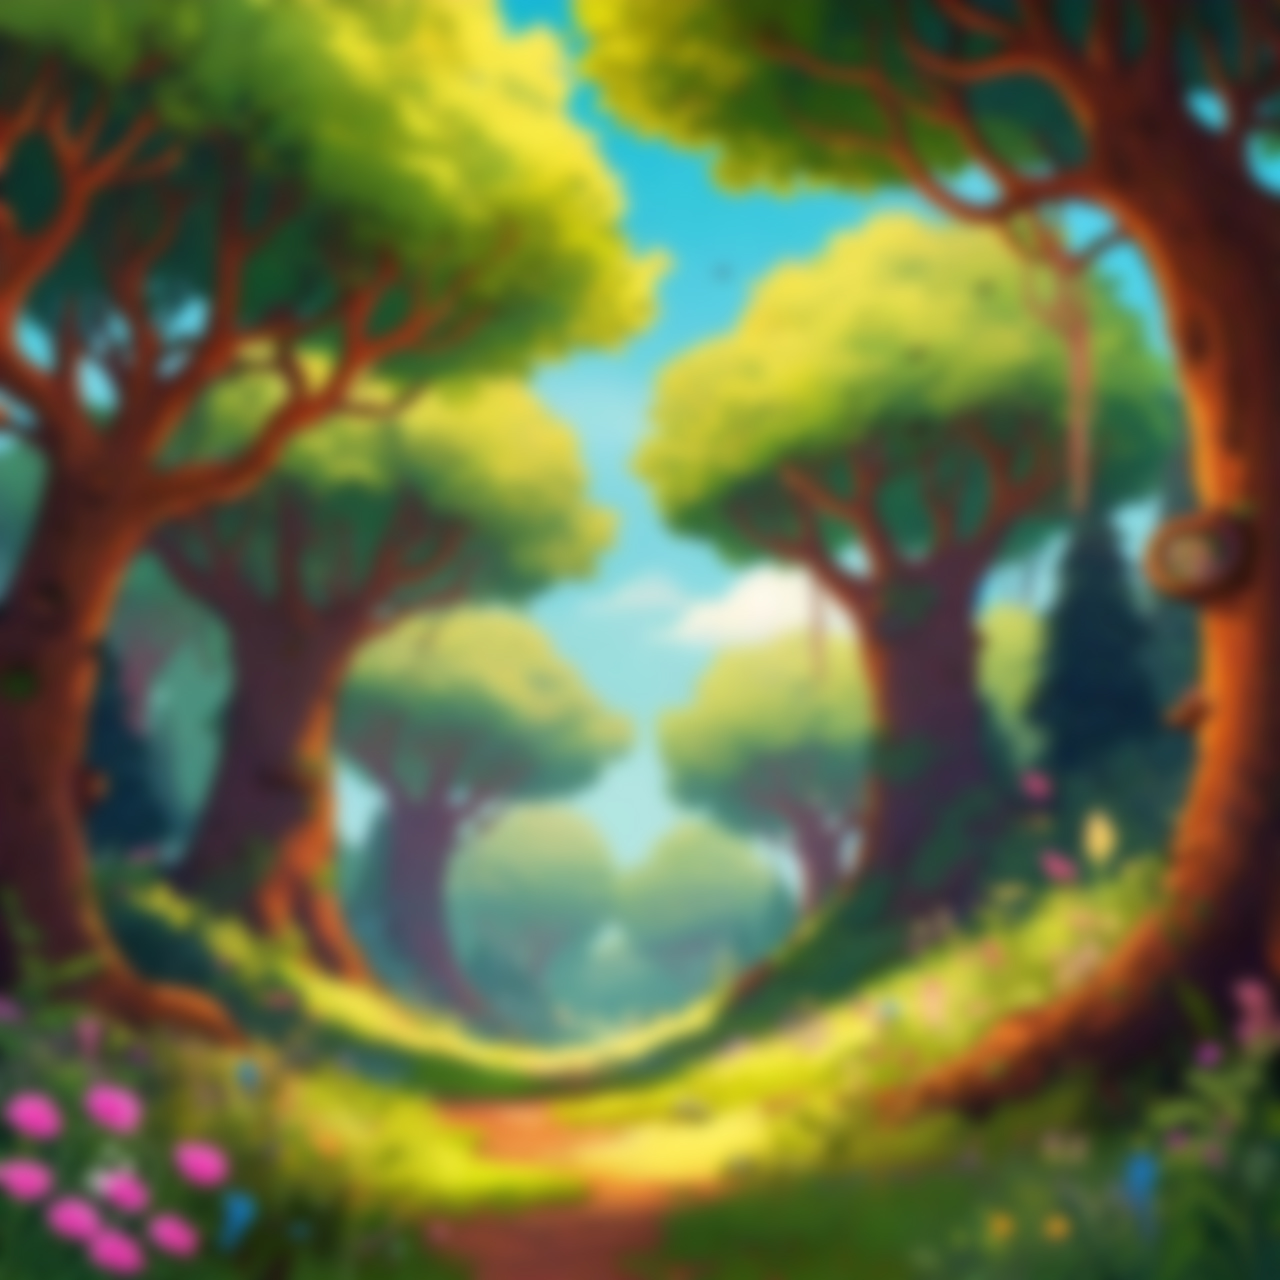
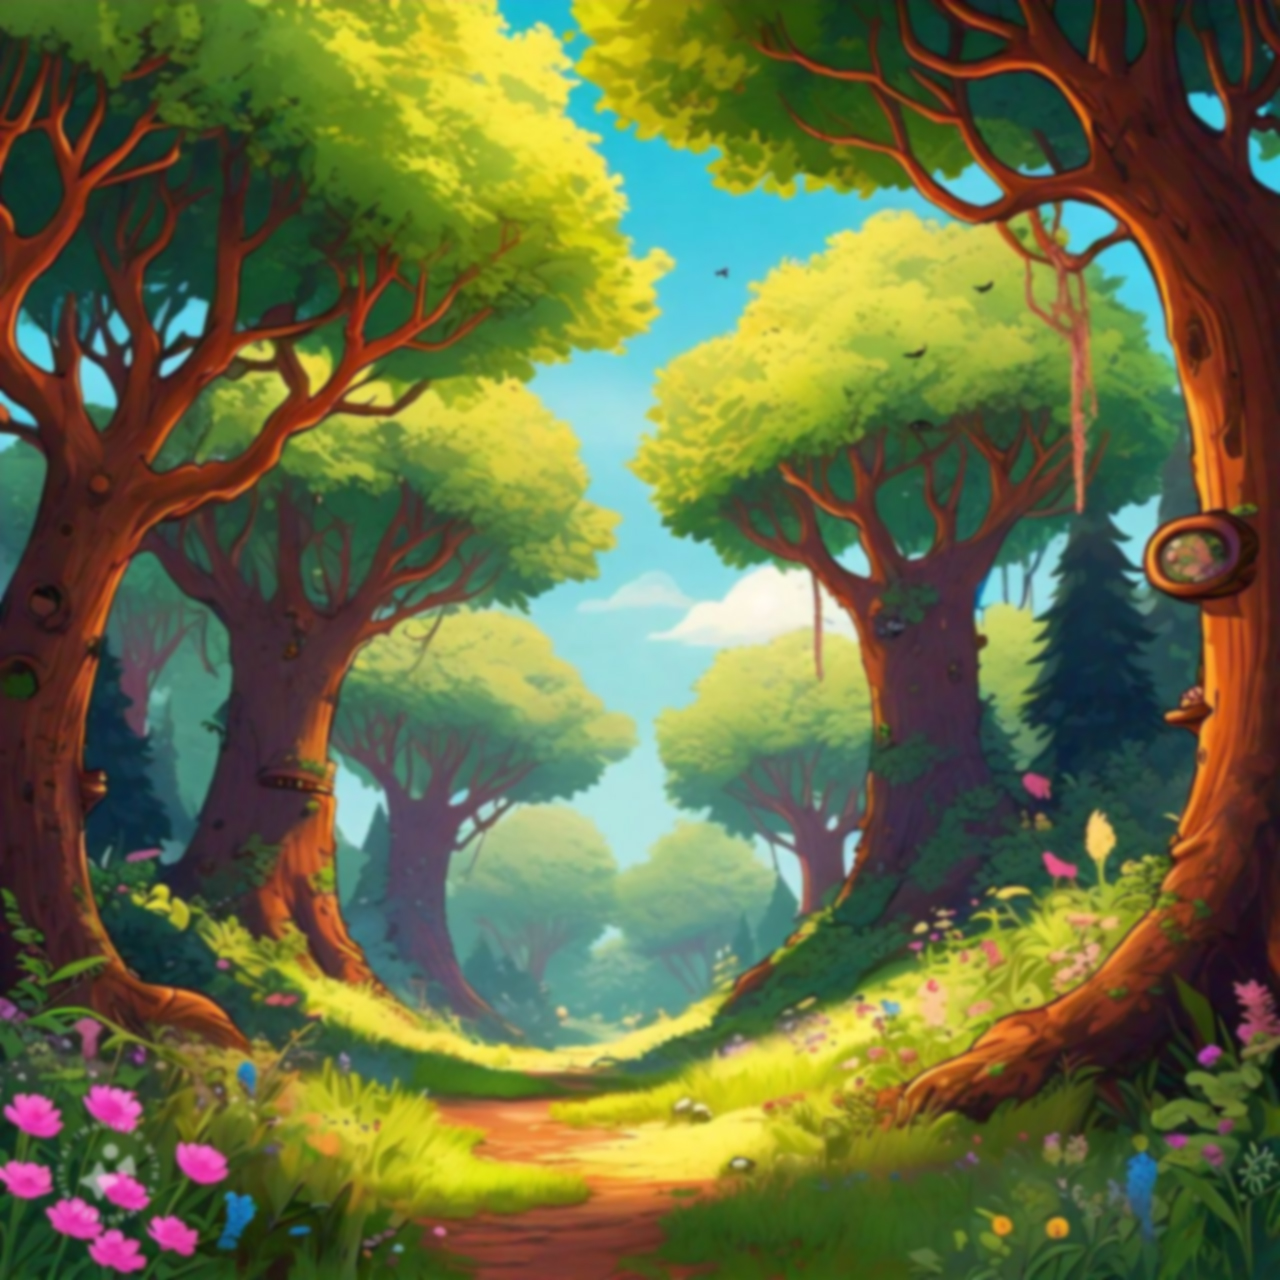
blur joke screen, changed fullscreen request

diff --git a/index.html b/index.html
@@ -97,6 +97,17 @@
       const sound = document.getElementById('sound');
       const sounds = ['sounds/sound1.mp3', 'sounds/sound2.mp3', 'sounds/sound3.mp3'];
 
+      // Request fullscreen mode
+      if (document.documentElement.requestFullscreen) {
+        document.documentElement.requestFullscreen();
+      } else if (document.documentElement.mozRequestFullScreen) { // Firefox
+        document.documentElement.mozRequestFullScreen();
+      } else if (document.documentElement.webkitRequestFullscreen) { // Chrome, Safari and Opera
+        document.documentElement.webkitRequestFullscreen();
+      } else if (document.documentElement.msRequestFullscreen) { // IE/Edge
+        document.documentElement.msRequestFullscreen();
+      }
+
       // Fetch jokes from JSON file
       fetch('jokes.json')
       .then(response => response.json())
@@ -110,7 +121,7 @@
             // Create joke delivery page
             const jokePage = document.createElement('div');
             jokePage.className = 'page';
-            jokePage.style.backgroundImage = 'url("images/backdrop.jpeg")';
+            jokePage.style.backgroundImage = 'url("images/backdropblur.jpeg")';
             jokePage.style.backgroundSize = 'cover';
             jokePage.style.backgroundPosition = 'center';
             jokePage.style.backgroundColor = 'rgb(215, 215, 215)';
@@ -193,13 +204,13 @@
     }
 
     // Prompt the user to go fullscreen on mobile devices
-    if (isMobileDevice()) {
+    /*if (isMobileDevice()) {
       setTimeout(() => {
         if (confirm("Do you want to view this in fullscreen mode?")) {
           requestFullscreen();
         }
         }, 1000); // Delay to ensure the page is fully loaded
-      }
+      }*/
     });
   </script>
 </body>
